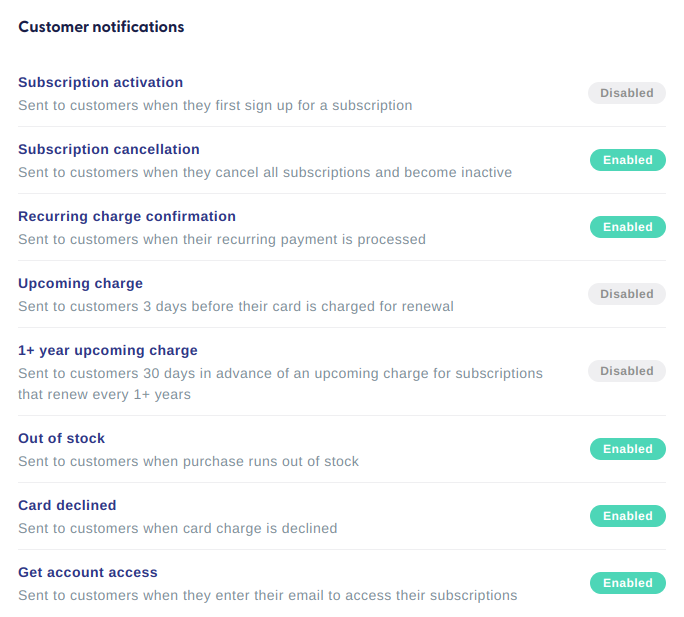
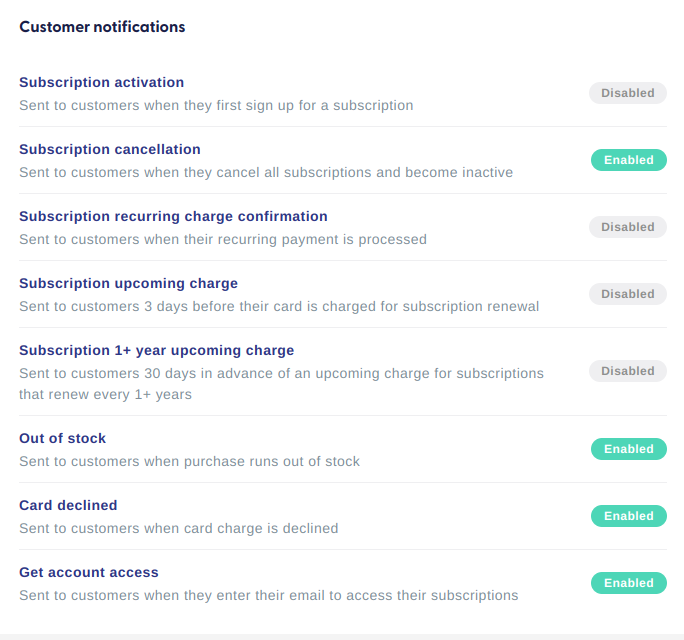
Doc update.
Decided it may be best to disable charge created notification from
recharge because email is already received from shopify re order
created.

diff --git a/docs/md-sources/RECHARGE.md b/docs/md-sources/RECHARGE.md
@@ -71,9 +71,16 @@ Because the Boxes App sends out an email on *subscription creation* and on
 *charge upcoming* (3 days prior to charge date) then these 2 email
 notifications can be disabled.
 
+It could also be argued that because Shopify sends out an *order confirmed*
+email when the charge is created the Recharge notification *recurring charge
+confirmation* may also be disabled.
+
 The *subscription cancellation* notification should however be enabled, because
 Boxes App handles the cancellation of subscriptions a single email is sent for
-the container box only and not the other included items.
+the container box only and not the other included items. Note: Currently it
+seems that this email is not sent when cancelling a single box subscription
+through the api. Awaiting confirmation from Recharge about this before creating
+an email from Boxes App confirming the cancellation.
 
 <img src="/assets/CustomerNotifications.png" width="660" />
 
